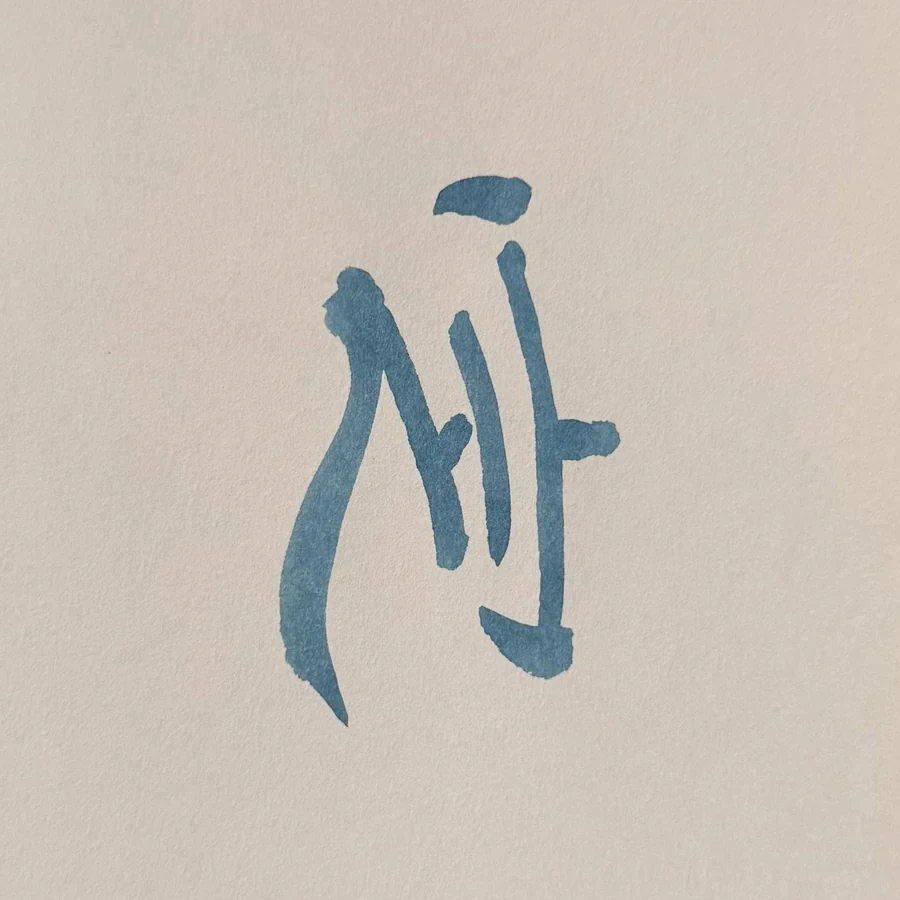
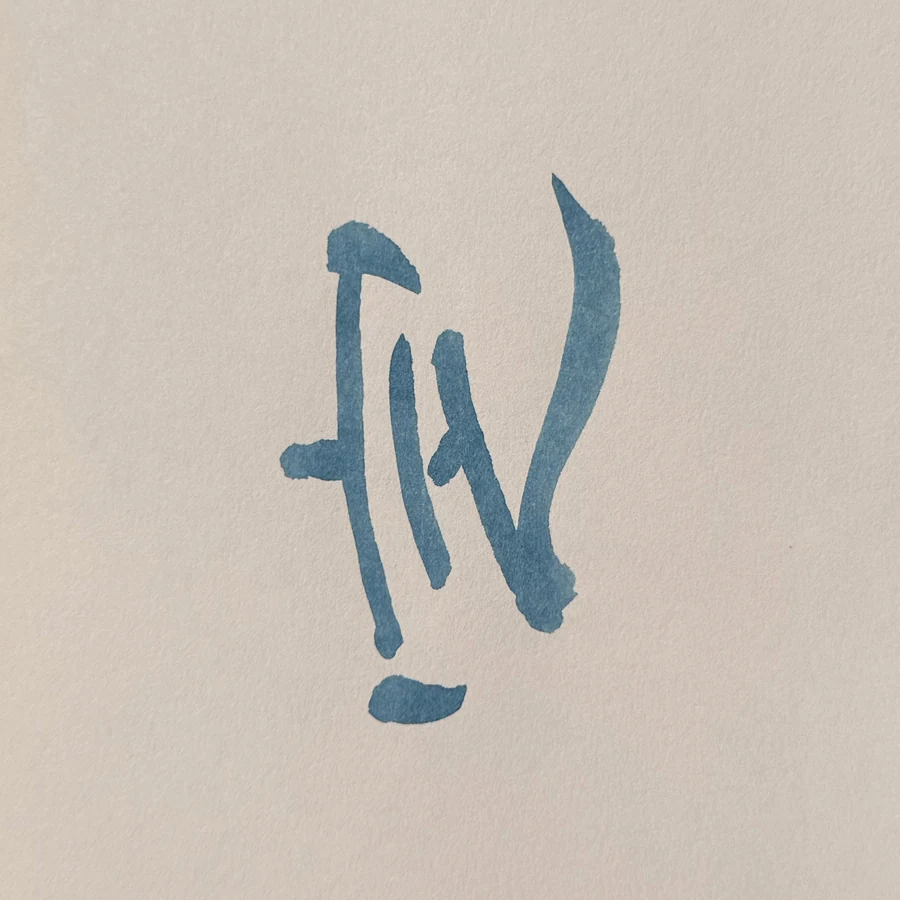
Match Phase 2B trace orientation

Changed region(s): [[0.3111, 0.1867, 0.7156, 0.8089]]

diff --git a/projects/skin-of-writing.html b/projects/skin-of-writing.html
@@ -982,21 +982,21 @@
                   <div class="skin-phase-two-matrix-head" aria-hidden="true"><span>Repeat</span><b>A / Natural</b><b>B / Blue return</b><b>C / Brown return</b></div>
                   <div class="skin-phase-two-matrix-row">
                     <span>01</span>
-                    <figure><img loading="lazy" decoding="async" src="../assets/skin-of-writing/10_phase2b/A1-natural.webp?v=20261028-rotate-right-1" alt="Repeat 1 condition A, natural completion in blue."><figcaption>39.60 s / no return</figcaption></figure>
-                    <figure><img loading="lazy" decoding="async" src="../assets/skin-of-writing/10_phase2b/B1-monochrome-retrace.webp?v=20261028-rotate-right-1" alt="Repeat 1 condition B, blue first pass with blue retracing."><figcaption>56.40 s / return 40–50 s</figcaption></figure>
-                    <figure><img loading="lazy" decoding="async" src="../assets/skin-of-writing/10_phase2b/C1-color-return.webp?v=20261028-rotate-right-1" alt="Repeat 1 condition C, blue first pass with brown retracing."><figcaption>58.17 s / return 40–50 s</figcaption></figure>
+                    <figure><img loading="lazy" decoding="async" src="../assets/skin-of-writing/10_phase2b/A1-natural.webp?v=20261028-orientation-match-2" alt="Repeat 1 condition A, natural completion in blue."><figcaption>39.60 s / no return</figcaption></figure>
+                    <figure><img loading="lazy" decoding="async" src="../assets/skin-of-writing/10_phase2b/B1-monochrome-retrace.webp?v=20261028-orientation-match-2" alt="Repeat 1 condition B, blue first pass with blue retracing."><figcaption>56.40 s / return 40–50 s</figcaption></figure>
+                    <figure><img loading="lazy" decoding="async" src="../assets/skin-of-writing/10_phase2b/C1-color-return.webp?v=20261028-orientation-match-2" alt="Repeat 1 condition C, blue first pass with brown retracing."><figcaption>58.17 s / return 40–50 s</figcaption></figure>
                   </div>
                   <div class="skin-phase-two-matrix-row">
                     <span>02</span>
-                    <figure><img loading="lazy" decoding="async" src="../assets/skin-of-writing/10_phase2b/A2-natural.webp?v=20261028-rotate-right-1" alt="Repeat 2 condition A, natural completion in blue."><figcaption>42.34 s / no return</figcaption></figure>
-                    <figure><img loading="lazy" decoding="async" src="../assets/skin-of-writing/10_phase2b/B2-monochrome-retrace.webp?v=20261028-rotate-right-1" alt="Repeat 2 condition B, blue first pass with blue retracing."><figcaption>59.57 s / return 40–50 s</figcaption></figure>
-                    <figure><img loading="lazy" decoding="async" src="../assets/skin-of-writing/10_phase2b/C2-color-return.webp?v=20261028-rotate-right-1" alt="Repeat 2 condition C, blue first pass with brown retracing."><figcaption>59.70 s / return 42–50 s</figcaption></figure>
+                    <figure><img loading="lazy" decoding="async" src="../assets/skin-of-writing/10_phase2b/A2-natural.webp?v=20261028-orientation-match-2" alt="Repeat 2 condition A, natural completion in blue."><figcaption>42.34 s / no return</figcaption></figure>
+                    <figure><img loading="lazy" decoding="async" src="../assets/skin-of-writing/10_phase2b/B2-monochrome-retrace.webp?v=20261028-orientation-match-2" alt="Repeat 2 condition B, blue first pass with blue retracing."><figcaption>59.57 s / return 40–50 s</figcaption></figure>
+                    <figure><img loading="lazy" decoding="async" src="../assets/skin-of-writing/10_phase2b/C2-color-return.webp?v=20261028-orientation-match-2" alt="Repeat 2 condition C, blue first pass with brown retracing."><figcaption>59.70 s / return 42–50 s</figcaption></figure>
                   </div>
                   <div class="skin-phase-two-matrix-row">
                     <span>03</span>
-                    <figure><img loading="lazy" decoding="async" src="../assets/skin-of-writing/10_phase2b/A3-natural.webp?v=20261028-rotate-right-1" alt="Repeat 3 condition A, natural completion in blue."><figcaption>38.93 s / no return</figcaption></figure>
-                    <figure><img loading="lazy" decoding="async" src="../assets/skin-of-writing/10_phase2b/B3-monochrome-retrace.webp?v=20261028-rotate-right-1" alt="Repeat 3 condition B, blue first pass with blue retracing."><figcaption>50.00 s / return 36–44 s</figcaption></figure>
-                    <figure><img loading="lazy" decoding="async" src="../assets/skin-of-writing/10_phase2b/C3-color-return.webp?v=20261028-rotate-right-1" alt="Repeat 3 condition C, blue first pass with brown retracing."><figcaption>52.80 s / return 38–46 s</figcaption></figure>
+                    <figure><img loading="lazy" decoding="async" src="../assets/skin-of-writing/10_phase2b/A3-natural.webp?v=20261028-orientation-match-2" alt="Repeat 3 condition A, natural completion in blue."><figcaption>38.93 s / no return</figcaption></figure>
+                    <figure><img loading="lazy" decoding="async" src="../assets/skin-of-writing/10_phase2b/B3-monochrome-retrace.webp?v=20261028-orientation-match-2" alt="Repeat 3 condition B, blue first pass with blue retracing."><figcaption>50.00 s / return 36–44 s</figcaption></figure>
+                    <figure><img loading="lazy" decoding="async" src="../assets/skin-of-writing/10_phase2b/C3-color-return.webp?v=20261028-orientation-match-2" alt="Repeat 3 condition C, blue first pass with brown retracing."><figcaption>52.80 s / return 38–46 s</figcaption></figure>
                   </div>
                 </div>
 
